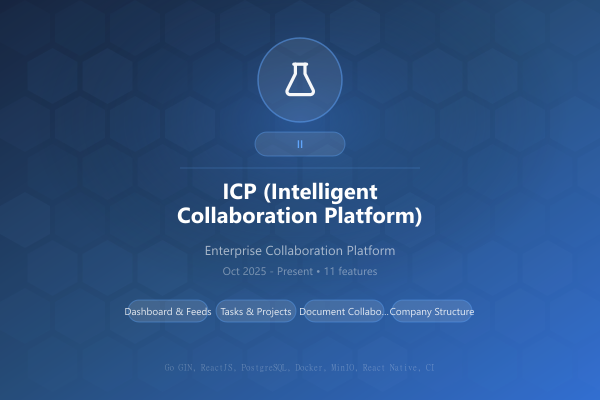
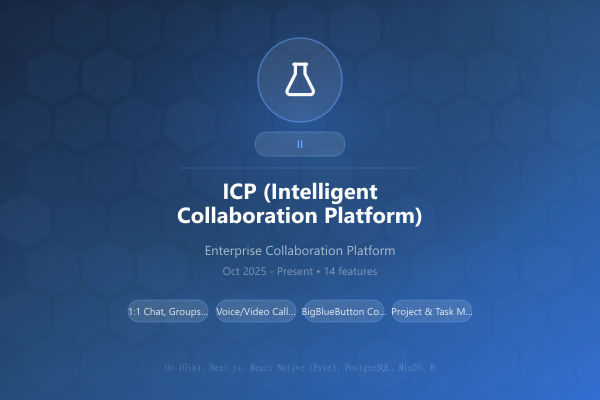
update

diff --git a/assets/js/portfolio-data.js b/assets/js/portfolio-data.js
@@ -9,22 +9,26 @@ const PORTFOLIO_PROJECTS = [
     "categoryDetail": "Hospitality LMS",
     "client": "HOSPIRE",
     "date": "Jul 2026 - Present",
-    "role": "Fullstack Developer (Freelance)",
-    "url": "",
-    "stack": "Laravel 12, Vue 3, Tailwind CSS, SeaweedFS, LiveKit, Docker, L5-Swagger",
+    "role": "Fullstack Developer",
+    "url": "https://hospire.id/",
+    "stack": "Laravel 12, Vue 3, Tailwind CSS, SeaweedFS, LiveKit, Docker, L5-Swagger, PostgreSQL",
     "overview": [
-      "Enterprise-grade Hospitality Learning Management System (LMS) combining program management, learning modules, assessments, certifications, job placements, and payment processing into a unified ecosystem.",
-      "Built with Laravel 12, Vue 3, Tailwind CSS, multi-language support (English & Indonesian), RBAC, real-time communication via LiveKit, SeaweedFS S3-compatible storage, and Docker."
+      "HOSPIRE is an enterprise-grade Hospitality Learning Management System (LMS) built with Laravel 12, Vue 3, and Tailwind CSS. It provides a comprehensive platform for hospitality education, combining program management, learning modules, assessments, certifications, job placements, and payment processing into a unified ecosystem.",
+      "The system supports multi-language content (English and Indonesian), role-based access control, real-time communication via LiveKit, file storage via SeaweedFS S3-compatible storage, and API documentation through L5-Swagger. Designed with clean architecture, modular feature isolation, and scalable infrastructure using Docker, HOSPIRE delivers a seamless experience for students, instructors, and administrators across the entire hospitality learning journey\u2014from enrollment and training to certification and global job placement."
     ],
     "features": [
       "Program Management",
       "Learning Modules & Assessments",
       "Certifications & Job Placements",
       "Payment Processing",
-      "Multi-Language Content",
+      "Multi-Language Content (English & Indonesian)",
       "Role-Based Access Control",
       "Real-Time Communication (LiveKit)",
-      "API Documentation (L5-Swagger)"
+      "SeaweedFS S3-Compatible File Storage",
+      "API Documentation (L5-Swagger)",
+      "Clean Architecture & Modular Feature Isolation",
+      "Docker Containerized Deployment",
+      "Landing Page & Dashboard Admin"
     ]
   },
   {
@@ -34,15 +38,15 @@ const PORTFOLIO_PROJECTS = [
     "categoryDetail": "AI-Powered POS & Business Intelligence",
     "client": "Indotani Store",
     "date": "May 2026 - Jun 2026",
-    "role": "Fullstack Developer (Freelance)",
+    "role": "Fullstack Developer",
     "url": "",
-    "stack": "Golang (Gin), Next.js, TypeScript, PostgreSQL, Redis, SeaweedFS, Nginx, Docker",
+    "stack": "Golang (Gin), Next.js, TypeScript, PostgreSQL, Redis, SeaweedFS, Nginx, Docker, REST API, Tailwind CSS, Git",
     "overview": [
-      "Enterprise-grade Point of Sale (POS) platform for retail stores, distributors, and agricultural businesses with AI-powered business insights for data-driven decision making.",
-      "Built with Golang (Gin), Next.js, TypeScript, PostgreSQL, Redis, SeaweedFS, Nginx, and Docker with RESTful APIs for POS, inventory, finance, and reporting modules."
+      "IndotaniPOS is a modern, enterprise-grade Point of Sale (POS) platform designed for retail stores, distributors, and agricultural businesses. The platform goes beyond transaction management by providing AI-powered business insights that help business owners make data-driven decisions.",
+      "Every business generates data, but most of it is never used. Sales are recorded, inventory is updated, and receivables are stored\u2014yet business owners still wonder why sales drop, what to restock, who hasn't paid, or whether cash flow is healthy. IndotaniPOS transforms daily transactions into actionable business insights for smarter decisions. Built with Golang (Gin), Next.js, TypeScript, PostgreSQL, Redis, SeaweedFS, Nginx, and Docker."
     ],
     "features": [
-      "Multi-branch POS",
+      "Multi-branch Point of Sale (POS)",
       "Product, Category, Supplier & Customer Management",
       "Inventory & Stock Monitoring",
       "Sales & Purchase Management",
@@ -54,7 +58,10 @@ const PORTFOLIO_PROJECTS = [
       "Best-Selling Product Analysis",
       "Low Stock & Restock Recommendations",
       "Business Performance Reporting",
-      "Role-Based Access Control (RBAC)"
+      "Role-Based Access Control (RBAC)",
+      "Real-time Analytics Dashboards",
+      "SeaweedFS Distributed File Storage",
+      "Redis Caching & Performance Optimization"
     ]
   },
   {
@@ -181,25 +188,28 @@ const PORTFOLIO_PROJECTS = [
     "categoryDetail": "Enterprise Collaboration Platform",
     "client": "BNPT",
     "date": "Oct 2025 - Present",
-    "role": "Project Manager (Freelance)",
+    "role": "Fullstack Engineer",
     "url": "https://icp.sysdev.id",
-    "stack": "Go GIN, ReactJS, PostgreSQL, Docker, MinIO, React Native, CI/CD",
+    "stack": "Go (Gin), Next.js, React Native (Eyre), PostgreSQL, MinIO, Redis, JWT/Keycloak SSO, LiveKit, BigBlueButton, OnlyOffice, Docker, Nginx",
     "overview": [
-      "Organization task and project management platform enabling task assignment, priority setting, task division, short communication, and work report monitoring.",
-      "Built with Go GIN, ReactJS, PostgreSQL, Docker, MinIO for storage bucket, React Native, and CI/CD."
+      "Enterprise collaboration platform that unifies real-time communication (1:1 chat, groups, private channels), voice/video calls (LiveKit P2P and BigBlueButton conferences), project and task management, file drive, calendar and meeting room booking, webmail, polling, social feed, document collaboration (OnlyOffice), push-to-talk, notifications, and activity dashboards in one integrated ecosystem.",
+      "Built with a Go REST API, real-time WebSocket service, Next.js web frontend, and Android/iOS mobile app (React Native / Eyre), backed by PostgreSQL, MinIO, Redis, JWT/Keycloak SSO, RBAC, chat encryption (AES transport + optional E2E), and Docker/Nginx deployment."
     ],
     "features": [
-      "Dashboard & Feeds",
-      "Tasks & Projects",
-      "Document Collaboration",
-      "Company Structure",
-      "Webmail",
-      "Chat & Calls",
-      "Private Channel",
-      "Calendar",
-      "Meeting Room",
-      "My Drive",
-      "Log Activity"
+      "1:1 Chat, Groups & Private Channels",
+      "Voice/Video Calls (LiveKit P2P)",
+      "BigBlueButton Conferences",
+      "Project & Task Management",
+      "File Drive (MinIO Storage)",
+      "Calendar & Meeting Room Booking",
+      "Webmail Integration",
+      "Polling & Social Feed",
+      "Document Collaboration (OnlyOffice)",
+      "Push-to-Talk & Notifications",
+      "Activity Dashboards",
+      "JWT/Keycloak SSO & RBAC",
+      "Chat Encryption (AES + Optional E2E)",
+      "Android/iOS Mobile App (React Native / Eyre)"
     ]
   },
   {
